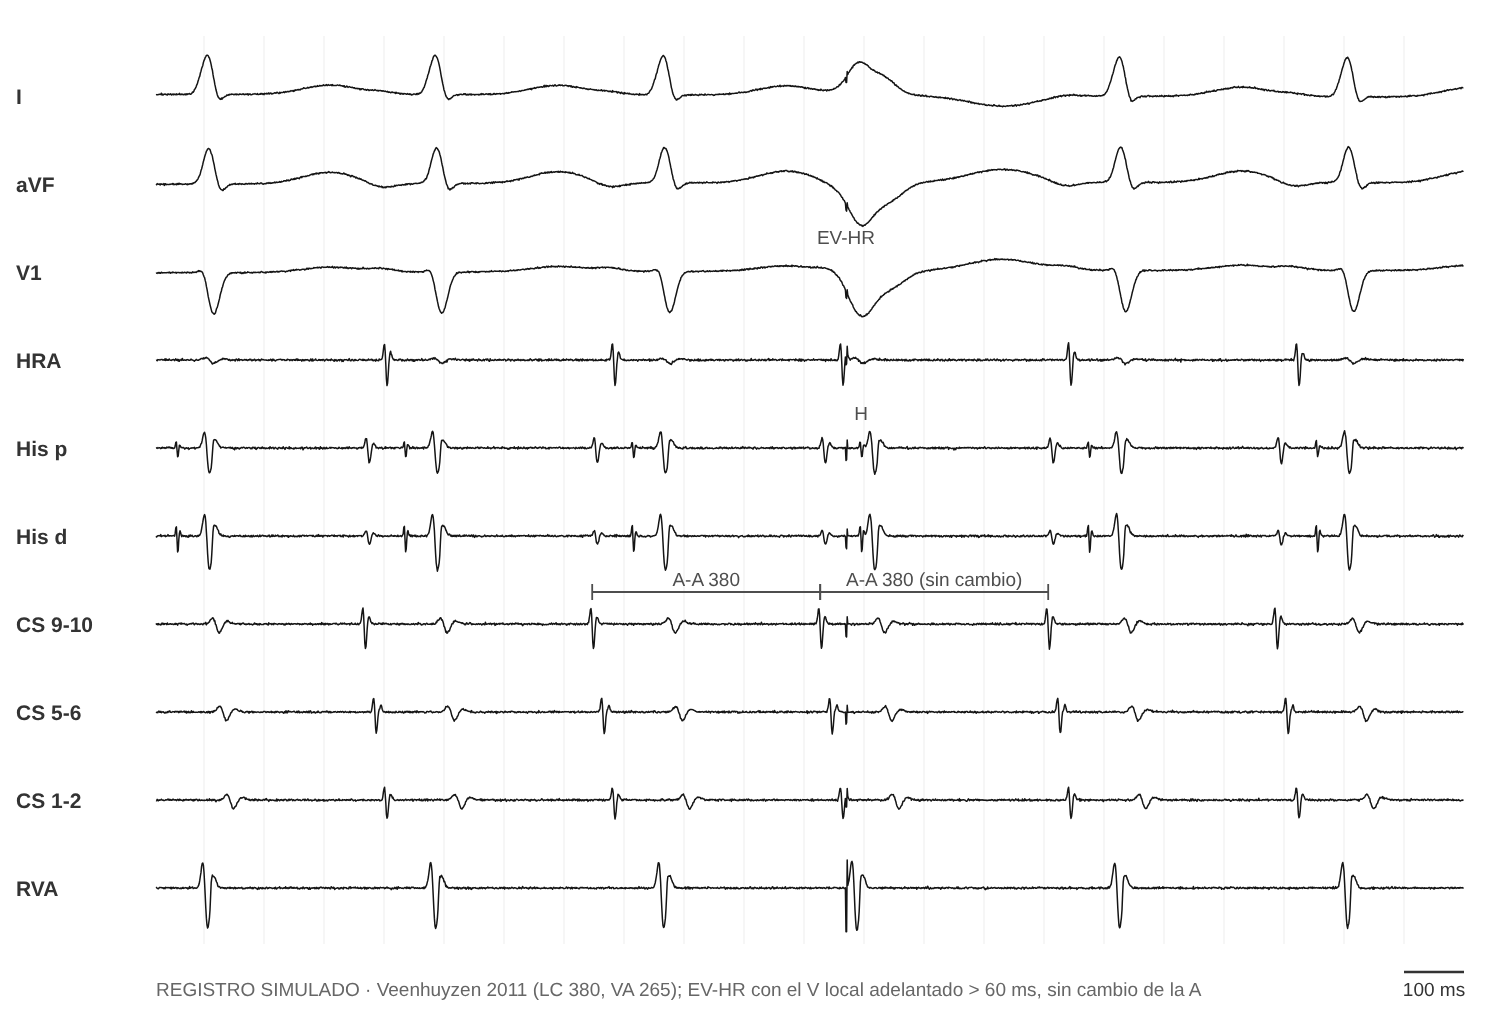
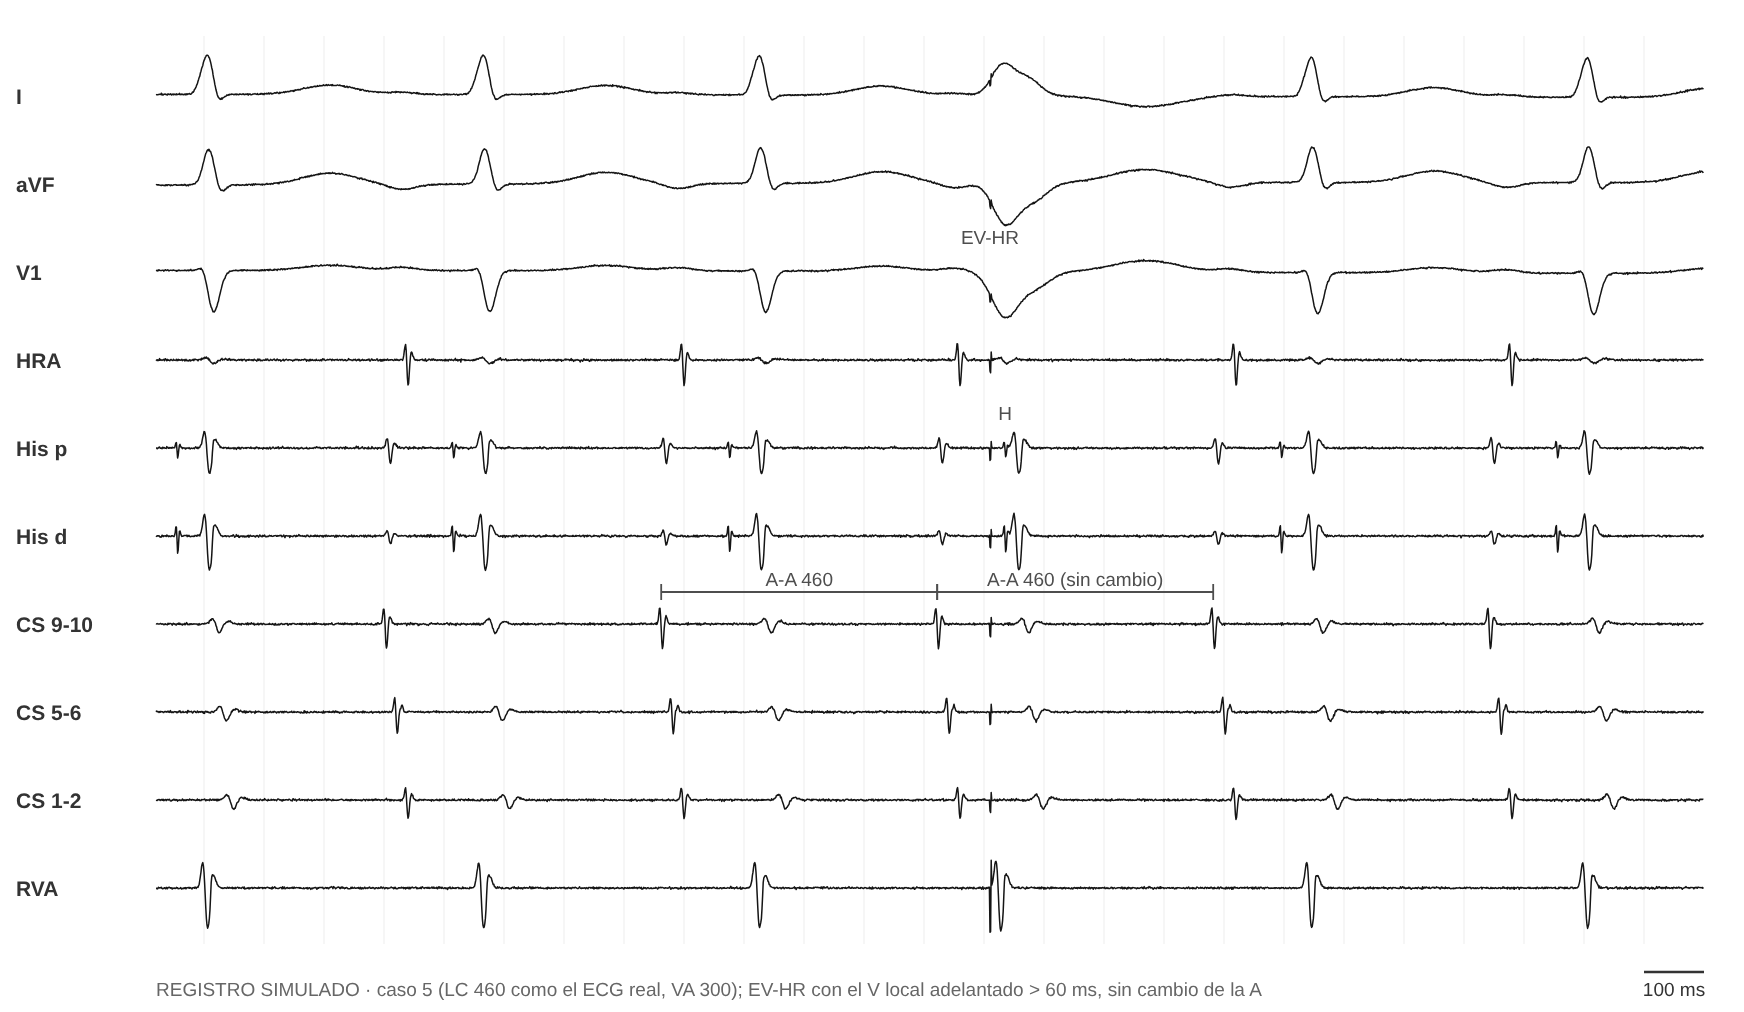
Caso 5: ECG real de TRNAV atípica (anonimizado), LC 460, basal, inducción, encarrilamiento y EV-HR propios
Claude-Session: https://claude.ai/code/session_01Pw5rjt62KK5LeJZoEyFiaM

diff --git a/index.html b/index.html
@@ -1113,15 +1113,16 @@ const PCASOS = [
       ado: { r: 'La TSV termina con una A.' }, aop: { r: 'VA linking presente.' } },
     dx: ['trav_l'], ex: 'La activación excéntrica y el efecto Coumel (VA que aumenta > 20–30 ms con bloqueo de rama homolateral) ya apuntan a una vía libre izquierda. Desde el ápex del VD los valores salen "límite"; desde el VI basal aparecen la fusión y el His ortodrómico.', refs: ['veen11', 'knight00', 'veen12'] },
   { id: 'c5', t: 'TSV de RP largo con "A-A-V"', p: 'Mujer de 22 años con TSV de RP largo.',
-    h: ['TSV de QRS angosto, LC 380 ms, relación 1:1', 'VA 265 ms (RP largo)', 'Activación concéntrica, más precoz en el ostium del SC'],
-    m: { vop: { r: 'Estimulando a 360 ms, después de la última espiga hay dos A antes del V. Entre ellas hay 360 ms y la secuencia es idéntica a la de la TSV.', u: 'clave', img: 'figs/sim/prac/veen11_pseudo.png' },
-      medidas: { r: 'PPI 565 (PPI−LC 185), cPPI−LC 185, SA 415 (SA−VA 150).', u: 'clave', img: 'figs/sim/prac/veen11_pseudo.png' },
+    ecg: 'figs/sim/casos/c5_ecg.jpg', ecgReal: true, basal: 'figs/sim/casos/c5_basal.png', ind: 'figs/sim/casos/c5_ind.png',
+    h: ['TSV de QRS angosto, LC 460 ms, relación 1:1', 'VA 300 ms (RP largo)', 'Activación concéntrica, más precoz en el ostium del SC'],
+    m: { vop: { r: 'Estimulando a 430 ms, después de la última espiga hay dos A antes del V. Entre ellas hay 430 ms y la secuencia es idéntica a la de la TSV.', u: 'clave', img: 'figs/sim/prac/p5_vop.png' },
+      medidas: { r: 'PPI 645 (PPI−LC 185), cPPI−LC 185, SA 450 (SA−VA 150).', u: 'clave', img: 'figs/sim/prac/p5_vop.png' },
       ehr: { r: 'No modifica la A, aun adelantando el V local más de 60 ms cerca del ostium del SC.', u: 'clave', img: 'figs/sim/prac/p5_ehr.png' },
       diff: { r: 'ΔVA (base − ápex) +30 ms.', u: 'util' },
       aop: { r: 'ΔAH 55 ms; el AH de la TSV es más corto que en sinusal.', u: 'util' },
       pre: { r: 'Doble fisiología nodal con salto AH de 65 ms.', u: 'util' },
       ado: { r: 'La TSV termina con un V (bloqueo en el brazo retrógrado).' }, parahis: { r: 'Respuesta nodal.' } },
-    dx: ['trnav_a'], ex: 'Es un seudo A-A-V: el SA (415) supera la LC de estimulación (360), así que A₂ es el último A acelerado y la respuesta es A-V. PPI−LC > 125 y SA−VA > 85 con EV-HR negativa y ΔAH > 40 indican TRNAV atípica rápida-lenta.', refs: ['veen11', 'ho15', 'man95'] },
+    dx: ['trnav_a'], ex: 'Es un seudo A-A-V: el SA (450) supera la LC de estimulación (430), así que A₂ es el último A acelerado y la respuesta es A-V. PPI−LC > 125 y SA−VA > 85 con EV-HR negativa y ΔAH > 40 indican TRNAV atípica rápida-lenta.', refs: ['veen11', 'ho15', 'man95'] },
   { id: 'c6', t: 'Taquicardia incesante y miocardiopatía', p: 'Niño de 6 años con taquicardia incesante y FEVI de 35 %. ECG: P negativa en las inferiores, RP largo.',
     h: ['TSV de QRS angosto, LC 521 ms, relación 1:1', 'VA 290 ms, HA 335 ms', 'A más precoz en el ostium del SC'],
     m: { vop: { r: 'Estimulando a 490 ms el His se captura en forma ortodrómica (misma morfología que en la TSV). Respuesta A-V.', u: 'clave', img: 'figs/sim/prac/ho15.png' },

diff --git a/sw.js b/sw.js
@@ -1,6 +1,6 @@
 // Permite instalar la app y abrirla sin conexión. Primero la red (siempre lo último publicado); si no hay, la copia.
 // Si cambiás un archivo, subí CACHE_VERSION.
-const CACHE_VERSION = 'mef-v65';
+const CACHE_VERSION = 'mef-v66';
 const ARCHIVOS = ['./', './index.html', './manifest.json', './iconos/icon-192.png', './iconos/icon-512.png'];
 self.addEventListener('install', e => e.waitUntil(caches.open(CACHE_VERSION).then(c => c.addAll(ARCHIVOS)).then(() => self.skipWaiting())));
 self.addEventListener('activate', e => e.waitUntil(caches.keys().then(ks => Promise.all(ks.filter(k => k !== CACHE_VERSION).map(k => caches.delete(k)))).then(() => self.clients.claim())));

diff --git a/herramientas/simulador/cases5.py b/herramientas/simulador/cases5.py
@@ -212,6 +212,40 @@ S['c3_ind'] = dict(win=(-80, vs[-1] + 200), pxms=0.30, title='Inicio de la taqui
     cal=[(a_sin[1], a_sin[2], 'HRA', 'A-A 550'), (A_ta[0], A_ta[1], 'HRA', f'A-A {A_ta[1] - A_ta[0]}'),
          (A_ta[4], A_ta[5], 'HRA', 'A-A 270'), (A_ta[5] + 20, hs[8], 'His d', 'AH 80')])
 
+# Caso 5 (TRNAV atípica rápida-lenta, LC 460 como el ECG real). Relaciones de Veenhuyzen 2011, fig. 3:
+# SA > LC de estimulación (seudo A-A-V), SA−VA 150, PPI−LC 185. VA 300, AH en la TSV 115.
+LC5, VA5, SC5, SA5, PPI5 = 460, 300, 430, 450, 645
+S['c5_basal'] = basal('caso 5: AH 90, HV 45, ilustrativos', ah=90, cl=750)
+S['c5_basal']['win'] = (-80, 2 * 750 + 330)
+# Inducción con extraestímulo ventricular S1-S2 600-320: la conducción VA salta a la vía lenta (VA 300) y empieza la TSV.
+sp = [0, 600, 920]
+A = [sp[0] + 120, sp[1] + 120, sp[2] + 300]
+hs = []
+for _ in range(4):
+    hs.append(A[-1] + 115)
+    A.append(hs[-1] + HV + VA5)
+vs = [h + HV for h in hs]
+S['c5_ind'] = dict(win=(-80, vs[-1] + 330), pxms=0.27, title='Inducción: extraestímulo ventricular (S1-S2 600-320)', channels=CH6,
+    src='caso 5: valores ilustrativos', beats=[(s, 'pa') for s in sp] + [(v, 'n') for v in vs], spikes=sp,
+    atr=[(a, 'conc_cs', -1) for a in A], h_ante=hs, h_retro=[s + 110 for s in sp],
+    cal=[(sp[1], sp[2], 'RVA', 'S2 320'), (sp[1], A[1] + 2, 'CS 9-10', 'SA 120'), (sp[2], A[2] + 2, 'CS 9-10', 'SA 300'),
+         (vs[1], vs[2], 'RVA', f'LC {LC5}'), (vs[1], A[4] + 2, 'HRA', f'VA {VA5}')])
+# Encarrilamiento desde el ápex a 430 (6 estímulos): después de la última espiga hay dos A antes del V.
+svt = [0, LC5]
+sp = [svt[-1] + 380 + SC5 * k for k in range(6)]
+A = [v + VA5 for v in svt] + [s + SA5 for s in sp]
+ret = sp[-1] + PPI5
+after = [ret, ret + LC5]
+S['p5_vop'] = dict(win=(-100, after[-1] + 340), pxms=0.22, title='Encarrilamiento desde el ápex del VD a 430 ms', channels=CH6,
+    src='caso 5: valores ilustrativos según las relaciones de Veenhuyzen 2011, fig. 3',
+    beats=[(v, 'n') for v in svt + after] + [(s, 'pa') for s in sp], spikes=sp,
+    atr=[(a, 'conc_cs', -1) for a in A + [v + VA5 for v in after]],
+    h_ante=[v - HV for v in svt + after], h_retro=[s + 120 for s in sp],
+    cal=[(svt[0], svt[1], 'RVA', f'LC {LC5}'), (svt[1], svt[1] + VA5 + 2, 'CS 9-10', f'VA {VA5}'), (sp[0], sp[1], 'RVA', f'S-S {SC5}'),
+         (sp[-1], ret + 2, 'RVA', f'PPI {PPI5}'), (sp[-1], A[-1] + 2, 'CS 9-10', f'SA {SA5}'),
+         (A[-3] + 38, A[-2] + 38, 'HRA', f'A-A {SC5}'), (A[-2] + 38, A[-1] + 38, 'HRA', f'A-A {SC5}')],
+    marks=[(A[-2] + 38, 'His p', 'A₁'), (A[-1] + 38, 'His p', 'A₂')])
+
 if __name__ == '__main__':
     for k in (sys.argv[3:] or list(S)):
         render(S[k], f'{OUT}/{k}.svg')

diff --git a/herramientas/simulador/cases4.py b/herramientas/simulador/cases4.py
@@ -33,8 +33,8 @@ def ehr(LC, VA, seq, d, k_spike=3, early=0, typ='pa', pace='RVA', n_after=2, tit
 S['p2_ehr'] = ehr(280, 110, 'conc_cs', 25, src='caso 2 (didáctico): LC 280, VA 110; la EV con His refractario adelanta la A 25 ms',
                   lab='A-A 255 (−25)')
 # Caso 5: TRNAV atípica, LC 380, VA 265; EV-HR adelanta el V local > 60 ms y no cambia la A.
-S['p5_ehr'] = ehr(380, 265, 'conc_cs', 0, early=25, src='Veenhuyzen 2011 (LC 380, VA 265); EV-HR con el V local adelantado > 60 ms, sin cambio de la A',
-                  lab='A-A 380 (sin cambio)')
+S['p5_ehr'] = ehr(460, 300, 'conc_cs', 0, early=25, src='caso 5 (LC 460 como el ECG real, VA 300); EV-HR con el V local adelantado > 60 ms, sin cambio de la A',
+                  lab='A-A 460 (sin cambio)')
 # Caso 6: PJRT, LC 521, VA 290; EV-HR retrasa la A 20 ms.
 S['p6_ehr'] = ehr(521, 290, 'conc_cs', -20, src='Ho 2015 (LC 521, VA 290); EV-HR que retrasa la A 20 ms', lab='A-A 541 (+20)')
 S['p6_ehr']['pxms'] = 0.24

diff --git a/PENDIENTES.md b/PENDIENTES.md
@@ -13,7 +13,7 @@ Cada link abre el caso en una vista de revisión: hallazgos, diagnóstico, expli
 - [ ] [ver](https://drsebastianmaldonado.github.io/Maniobras-EEF/#revision-2) **Caso 2: TSV de RP corto con VA de 110 ms**. Didáctico (TRAV septal) con tu ECG real: la LC pasó de 360 a 280; PPI−LC 80 y SA−VA 40 de Michaud; ΔHA −45 y EV-HR que adelanta 25 ms son ilustrativos.
 - [ ] [ver](https://drsebastianmaldonado.github.io/Maniobras-EEF/#revision-3) **Caso 3: Taquicardia incesante con disfunción ventricular**. Didáctico (TA) con tu ECG real de TAE incesante: pasó a una niña de 2 años con LC 270; el resto ilustrativo.
 - [ ] [ver](https://drsebastianmaldonado.github.io/Maniobras-EEF/#revision-4) **Caso 4: TSV con activación excéntrica**. Datos publicados: Veenhuyzen 2011, fig. 1B y 5.
-- [ ] [ver](https://drsebastianmaldonado.github.io/Maniobras-EEF/#revision-5) **Caso 5: TSV de RP largo con "A-A-V"**. Datos publicados: Veenhuyzen 2011, fig. 3.
+- [ ] [ver](https://drsebastianmaldonado.github.io/Maniobras-EEF/#revision-5) **Caso 5: TSV de RP largo con "A-A-V"**. Datos publicados: Veenhuyzen 2011, fig. 3. Con tu ECG real: la LC pasó de 380 a 460; VA 300, estimulación 430, SA 450 y PPI 645 son ilustrativos y mantienen las relaciones del artículo (SA > LC de estimulación, SA−VA 150, PPI−LC 185).
 - [ ] [ver](https://drsebastianmaldonado.github.io/Maniobras-EEF/#revision-6) **Caso 6: Taquicardia incesante y miocardiopatía**. Datos publicados: Ho 2015.
 - [ ] [ver](https://drsebastianmaldonado.github.io/Maniobras-EEF/#revision-7) **Caso 7: Taquicardia con A y V simultáneos**. Didáctico (taquicardia de la unión) con tu ECG real de JET: pasó a una niña de 13 meses con LC 425; PPI−LC 175 y el resto ilustrativos.
 - [ ] [ver](https://drsebastianmaldonado.github.io/Maniobras-EEF/#revision-8) **Caso 8: Taquicardia de QRS ancho que terminó con verapamilo**. Datos publicados: Liu Q 2023, Liu 2015 y Nogami 2010. Con tus ECG reales (TV y sinusal después de la conversión): la LC pasó de 337 a 420 y el QRS a 140; el registro del verapamilo (LC 420 → 480) es ilustrativo.
